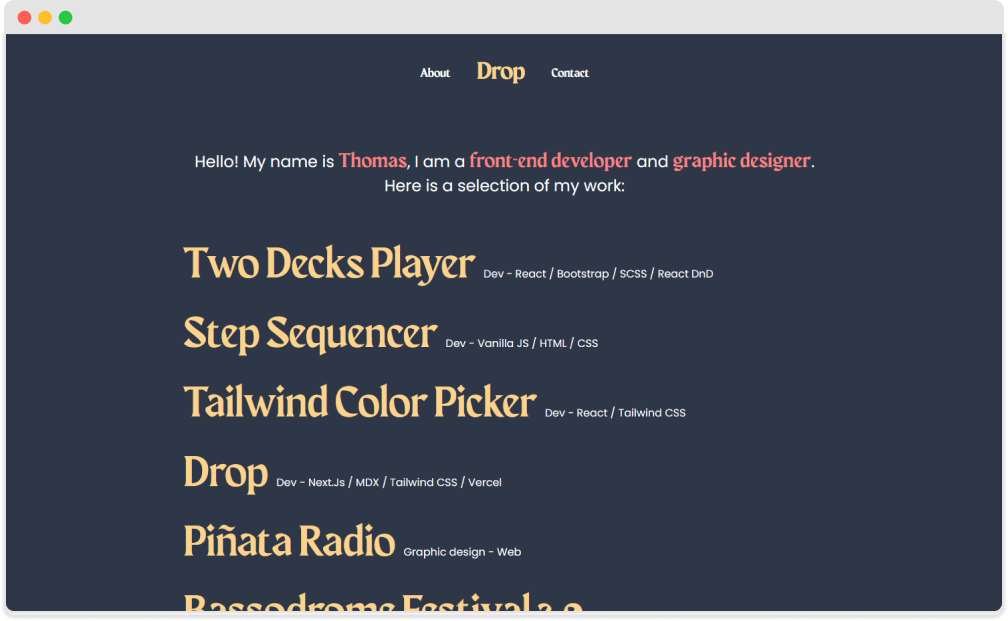
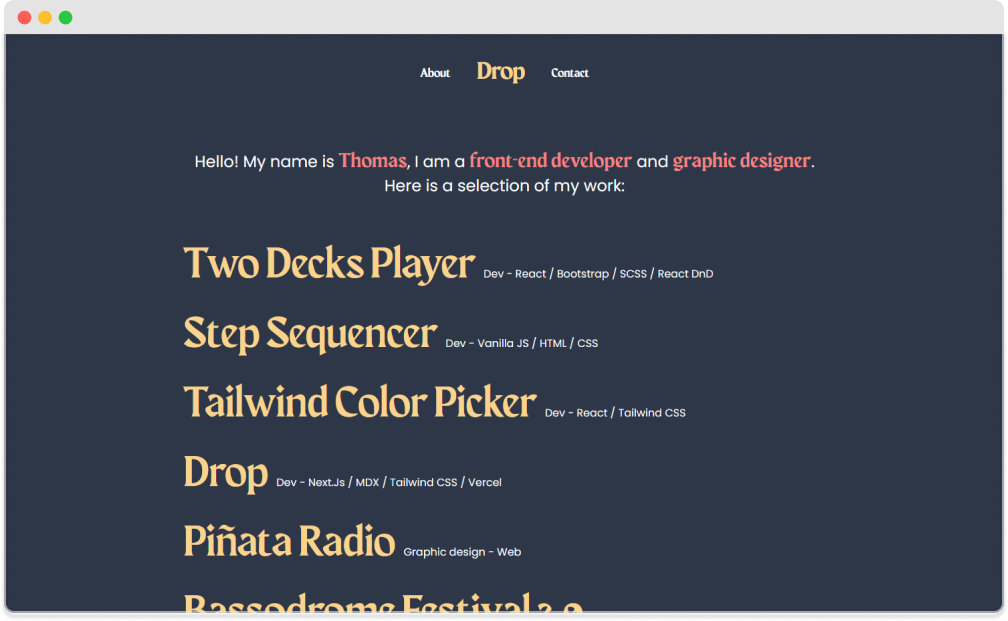
Style adjusments

Changed region(s): [[0.0, 0.0612, 1.0, 1.0]]

diff --git a/pages/about.js b/pages/about.js
@@ -10,7 +10,7 @@ const About = () => {
       </Head>
 
       <header>
-        <h2 className="font-custom text-center text-6xl text-orange-300 leading-none">
+        <h2 className="font-custom text-center text-5xl md:text-6xl text-orange-300 leading-none">
           About
         </h2>
       </header>
@@ -22,17 +22,17 @@ const About = () => {
             side for smaller personal or work-related projects. I also love
             music and worked on a few podcasts for Piñata Radio.
           </p>
-          <p className="mx-auto mt-8 text-lg px-4 text-center">
+          <p className="mx-auto mt-6 text-lg px-4 text-center">
             Feel free to reach me through the{" "}
             <Link href="/contact">
-              <a className="font-custom underline text-orange-300 text-xl">
+              <a className="font-custom underline text-xl">
                 contact
               </a>
             </Link>{" "}
             page!
           </p>
 
-          <div className="w-50% flex justify-center align-center text-orange-300 mt-4">
+          <div className="w-50% flex justify-center align-center text-orange-300 mt-6">
             {/* Github*/}
             <a
               className="block"
@@ -41,12 +41,12 @@ const About = () => {
             >
               <svg
                 className="w-12"
-                fill="currentColor"
                 xmlns="http://www.w3.org/2000/svg"
+                fill="currentColor"
                 viewBox="0 0 24 24"
               >
                 <title>GitHub Logo</title>
-                <path d="M10.9,2.1c-4.6,0.5-8.3,4.2-8.8,8.7c-0.6,5,2.5,9.3,6.9,10.7v-2.3c0,0-0.4,0.1-0.9,0.1c-1.4,0-2-1.2-2.1-1.9 c-0.1-0.4-0.3-0.7-0.6-1C5.1,16.3,5,16.3,5,16.2C5,16,5.3,16,5.4,16c0.6,0,1.1,0.7,1.3,1c0.5,0.8,1.1,1,1.4,1c0.4,0,0.7-0.1,0.9-0.2 c0.1-0.7,0.4-1.4,1-1.8c-2.3-0.5-4-1.8-4-4c0-1.1,0.5-2.2,1.2-3C7.1,8.8,7,8.3,7,7.6C7,7.2,7,6.6,7.3,6c0,0,1.4,0,2.8,1.3 C10.6,7.1,11.3,7,12,7s1.4,0.1,2,0.3C15.3,6,16.8,6,16.8,6C17,6.6,17,7.2,17,7.6c0,0.8-0.1,1.2-0.2,1.4c0.7,0.8,1.2,1.8,1.2,3 c0,2.2-1.7,3.5-4,4c0.6,0.5,1,1.4,1,2.3v3.3c4.1-1.3,7-5.1,7-9.5C22,6.1,16.9,1.4,10.9,2.1z" />
+                <path d="M12 0c-6.626 0-12 5.373-12 12 0 5.302 3.438 9.8 8.207 11.387.599.111.793-.261.793-.577v-2.234c-3.338.726-4.033-1.416-4.033-1.416-.546-1.387-1.333-1.756-1.333-1.756-1.089-.745.083-.729.083-.729 1.205.084 1.839 1.237 1.839 1.237 1.07 1.834 2.807 1.304 3.492.997.107-.775.418-1.305.762-1.604-2.665-.305-5.467-1.334-5.467-5.931 0-1.311.469-2.381 1.236-3.221-.124-.303-.535-1.524.117-3.176 0 0 1.008-.322 3.301 1.23.957-.266 1.983-.399 3.003-.404 1.02.005 2.047.138 3.006.404 2.291-1.552 3.297-1.23 3.297-1.23.653 1.653.242 2.874.118 3.176.77.84 1.235 1.911 1.235 3.221 0 4.609-2.807 5.624-5.479 5.921.43.372.823 1.102.823 2.222v3.293c0 .319.192.694.801.576 4.765-1.589 8.199-6.086 8.199-11.386 0-6.627-5.373-12-12-12z" />
               </svg>
             </a>
             {/* Linkedin */}
@@ -56,13 +56,14 @@ const About = () => {
               aria-label="LinkedIn link"
             >
               <svg
-                className="ml-6 w-10 mt-1"
+                className="w-12 ml-4"
                 xmlns="http://www.w3.org/2000/svg"
-                viewBox="0 0 26 26"
+                viewBox="0 0 24 24"
                 fill="currentColor"
               >
                 <title>LinkedIn Logo</title>
-                <path d="M 21.125 0 L 4.875 0 C 2.183594 0 0 2.183594 0 4.875 L 0 21.125 C 0 23.816406 2.183594 26 4.875 26 L 21.125 26 C 23.816406 26 26 23.816406 26 21.125 L 26 4.875 C 26 2.183594 23.816406 0 21.125 0 Z M 8.039063 22.070313 L 4 22.070313 L 3.976563 9.976563 L 8.015625 9.976563 Z M 5.917969 8.394531 L 5.894531 8.394531 C 4.574219 8.394531 3.722656 7.484375 3.722656 6.351563 C 3.722656 5.191406 4.601563 4.3125 5.945313 4.3125 C 7.289063 4.3125 8.113281 5.191406 8.140625 6.351563 C 8.140625 7.484375 7.285156 8.394531 5.917969 8.394531 Z M 22.042969 22.070313 L 17.96875 22.070313 L 17.96875 15.5 C 17.96875 13.910156 17.546875 12.828125 16.125 12.828125 C 15.039063 12.828125 14.453125 13.558594 14.171875 14.265625 C 14.066406 14.519531 14.039063 14.867188 14.039063 15.222656 L 14.039063 22.070313 L 9.945313 22.070313 L 9.921875 9.976563 L 14.015625 9.976563 L 14.039063 11.683594 C 14.5625 10.875 15.433594 9.730469 17.519531 9.730469 C 20.105469 9.730469 22.039063 11.417969 22.039063 15.046875 L 22.039063 22.070313 Z" />
+
+                <path d="M12 0c-6.627 0-12 5.373-12 12s5.373 12 12 12 12-5.373 12-12-5.373-12-12-12zm-2 16h-2v-6h2v6zm-1-6.891c-.607 0-1.1-.496-1.1-1.109 0-.612.492-1.109 1.1-1.109s1.1.497 1.1 1.109c0 .613-.493 1.109-1.1 1.109zm8 6.891h-1.998v-2.861c0-1.881-2.002-1.722-2.002 0v2.861h-2v-6h2v1.093c.872-1.616 4-1.736 4 1.548v3.359z" />
               </svg>
             </a>
           </div>

diff --git a/pages/contact.js b/pages/contact.js
@@ -8,11 +8,11 @@ const About = () => {
         <title>Drop - Contact</title>
       </Head>
 
-        <header>
-          <h3 className="font-custom text-center text-6xl text-orange-300 leading-none">
-            Want to say hello ?
-          </h3>
-        </header>
+      <header>
+        <h3 className="font-custom text-center text-5xl md:text-6xl text-orange-300 leading-none">
+          Want to say hello ?
+        </h3>
+      </header>
       <main>
         <section>
           {/* Contact form */}
@@ -22,19 +22,13 @@ const About = () => {
             method="POST"
           >
             <div className="inline-block md:w-1/2 md:pr-4">
-              <label
-                className="block text-lg mb-2"
-                htmlFor="name"
-              >
+              <label className="block text-lg mb-2" htmlFor="name">
                 Name
               </label>
               <input required className="mb-8" id="name" name="name"></input>
             </div>
             <div className="inline-block md:w-1/2 md:pl-4">
-              <label
-                className="w-100 block text-lg mb-2"
-                htmlFor="email"
-              >
+              <label className="w-100 block text-lg mb-2" htmlFor="email">
                 Email
               </label>
               <input
@@ -46,14 +40,11 @@ const About = () => {
               ></input>
             </div>
             <div>
-              <label
-                className="block text-lg mb-2"
-                htmlFor="message"
-              >
+              <label className="block text-lg mb-2" htmlFor="message">
                 Message
               </label>
               <textarea
-                className="appearance-none resize-none h-32 rounded w-full py-2 px-3 text-gray-700 mb-8"
+                className="appearance-none resize-none h-32 rounded w-full py-2 px-3 text-gray-700"
                 required
                 type="text"
                 name="message"
@@ -61,7 +52,7 @@ const About = () => {
               ></textarea>
             </div>
             <button
-              className="block w-1/2 mx-auto border-2 text-bold border-orange-300 text-orange-300 hover:bg-orange-300 hover:text-gray-800 rounded py-4 px-8"
+              className="block w-1/2 mt-10 mx-auto border-2 text-bold border-orange-300 text-orange-300 hover:bg-orange-300 hover:text-gray-800 rounded py-4 px-8"
               type="submit"
             >
               Send

diff --git a/components/projects/ProjectsNavLinks.js b/components/projects/ProjectsNavLinks.js
@@ -10,19 +10,19 @@ const ProjectsNavLinks = ({ prevProject, nextProject }) => {
           as={`/projects/${prevProject.id}`}
           scroll={false}
         >
-          <a className="w-1/3 md:flex md:justify-start md:items-center font-custom text-left text-3xl md:text-xl text-orange-300 mt-3">
+          <a className="w-1/3 flex mt-3 justify-start items-center font-custom text-left text-xl text-orange-300">
             {/* Left arrow */}
             <svg
-              class="w-8 h-8 md:w-5 md:h-5 mr-2 mt-0 pt-0"
+              className="w-8 h-8 md:w-5 md:h-5 mr-2 mt-0 pt-0"
               fill="none"
               stroke="currentColor"
               viewBox="0 0 24 24"
               xmlns="http://www.w3.org/2000/svg"
             >
               <path
-                stroke-linecap="round"
-                stroke-linejoin="round"
-                stroke-width="2"
+                strokeLinecap="round"
+                strokeLinejoin="round"
+                strokeWidth="2"
                 d="M10 19l-7-7m0 0l7-7m-7 7h18"
               ></path>
             </svg>
@@ -47,23 +47,23 @@ const ProjectsNavLinks = ({ prevProject, nextProject }) => {
           as={`/projects/${nextProject.id}`}
           scroll={false}
         >
-          <a className="w-1/3 md:flex md:justify-end md:items-center font-custom text-right text-xl text-orange-300 mt-3">
+          <a className="w-1/3 flex mt-3 justify-end items-center font-custom text-right text-xl text-orange-300">
             {/* Project name */}
             <span className="hidden md:block">
               {nextProject.title}
             </span>
             {/* Right arrow */}
             <svg
-              class="w-8 h-8 md:w-5 md:h-5 ml-2"
+              className="w-8 h-8 md:w-5 md:h-5 ml-2"
               fill="none"
               stroke="currentColor"
               viewBox="0 0 24 24"
               xmlns="http://www.w3.org/2000/svg"
             >
               <path
-                stroke-linecap="round"
-                stroke-linejoin="round"
-                stroke-width="2"
+                strokeLinecap="round"
+                strokeLinejoin="round"
+                strokeWidth="2"
                 d="M14 5l7 7m0 0l-7 7m7-7H3"
               ></path>
             </svg>

diff --git a/pages/index.js b/pages/index.js
@@ -28,19 +28,19 @@ export default function Home({ allProjectsData }) {
         <header>
           <motion.h1
             variants={indexVariant}
-            className="text-white text-center text-2xl mx-auto max-w-5xl leading-tight"
+            className="text-white mt-16 mb-12 md:mt-24 md:mb-16 text-center text-xl md:text-2xl mx-auto max-w-5xl"
           >
             Hello! My name is{" "}
-            <span className="font-custom text-3xl text-red-400 tracking-wide">
+            <span className="font-custom text-2xl md:text-3xl text-red-400 tracking-wide leading-tight">
               Thomas
             </span>
             , I am a{" "}
-            <span className="font-custom text-3xl text-red-400 tracking-wide">
+            <span className="font-custom text-2xl md:text-3xl text-red-400 tracking-wide leading-tight">
               {" "}
               front-end developer
             </span>{" "}
             and{" "}
-            <span className="font-custom text-3xl text-red-400 tracking-wide">
+            <span className="font-custom text-2xl md:text-3xl text-red-400 tracking-wide leading-tight">
               {" "}
               graphic designer
             </span>

diff --git a/components/layout/NavBar.js b/components/layout/NavBar.js
@@ -2,27 +2,26 @@ import Link from "next/link";
 
 const NavBar = () => {
   return (
-    <nav className="flex justify-center mt-10">
+    <nav className="mt-12">
       <ul className="flex justify-center items-center">
-        <li>
+        <li className="mt-2">
           <Link href="/about">
-            <a className="font-custom text-lg">About</a>
+            <a className="font-custom text-lg leading-none">About</a>
           </Link>
         </li>
         <li>
           <Link href="/">
             <a
               id="logo"
-              className="font-custom text-3xl font-bold mx-10 text-orange-300"
+              className="font-custom text-4xl font-bold mx-10 text-orange-300 leading-none"
             >
               Drop
             </a>
           </Link>
         </li>
-
-        <li className="font-custom text-lg">
+        <li className="mt-2">
           <Link href="/contact">
-            <a className="font-custom text-lg">Contact</a>
+            <a className="font-custom text-lg leading-none">Contact</a>
           </Link>
         </li>
       </ul>

diff --git a/styles/tailwind.css b/styles/tailwind.css
@@ -13,7 +13,15 @@ body {
 
 main,
 header {
-  @apply mt-2 px-8 max-w-screen-lg m-auto;
+  @apply px-8 max-w-screen-lg mx-auto;
+}
+
+header {
+  @apply mt-12;
+}
+
+main {
+  @apply mt-8;
 }
 
 /* ----- HOMEPAGE ----- */
@@ -21,6 +29,11 @@ header {
 .project-line {
   @apply py-4 border border-solid border-orange-300 border-0 transition-all duration-200 ease-in-out;
 }
+
+.project-line:first-child {
+  @apply pt-0 pb-4;
+}
+
 
 /* ----- PROJECTS ----- */
 
@@ -46,12 +59,12 @@ form textarea:focus {
 /* ----- MEDIA QUERIES ----- */
 
 @screen md {
-  header{
+  header {
     @apply mt-20;
   }
 
   main {
-    @apply mt-10;
+    @apply mt-12;
   }
 
   /* -- Homepage --  */
@@ -59,6 +72,11 @@ form textarea:focus {
   .project-line {
     @apply py-5;
   }
+
+  .project-line:first-child {
+    @apply pt-0 pb-5;
+  }
+
 
   .project-line:hover {
     @apply border-b-8;

diff --git a/components/projects/ProjectsList.js b/components/projects/ProjectsList.js
@@ -42,10 +42,10 @@ const ProjectsList = ({ allProjectsData }) => {
           >
             <Link href="/projects/[id]" as={`/projects/${id}`} scroll={false}>
               <a className="p-0 m-0">
-                <h2 className="lg:inline-block font-custom text-5xl md:text-6xl text-orange-300 leading-none">
+                <h2 className="lg:inline-block font-custom text-4xl md:text-6xl text-orange-300 leading-none">
                   {title}
                 </h2>
-                <p className="lg:inline-block mt-1 md:mt-2 lg:mt-0 lg:ml-3 leading-tight">
+                <p className="text-sm md:text-base lg:inline-block mt-1 md:mt-2 lg:mt-0 lg:ml-3 md:leading-tight">
                   {type}
                 </p>
               </a>

diff --git a/pages/projects/[id].js b/pages/projects/[id].js
@@ -30,7 +30,7 @@ export default function Project({
           <h2 className="font-custom text-center text-5xl md:text-6xl text-orange-300 leading-none">
             {frontMatter.title}
           </h2>
-          <p className="text-center mt-2">{frontMatter.type}</p>
+          <p className="text-center mt-3">{frontMatter.type}</p>
         </header>
         <main>
           {/* Content */}
